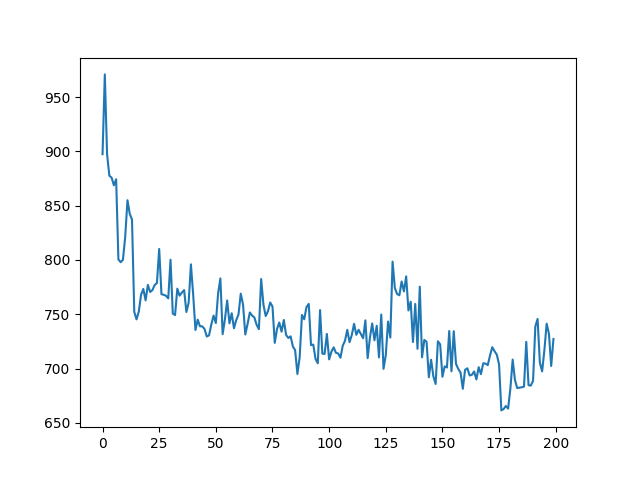
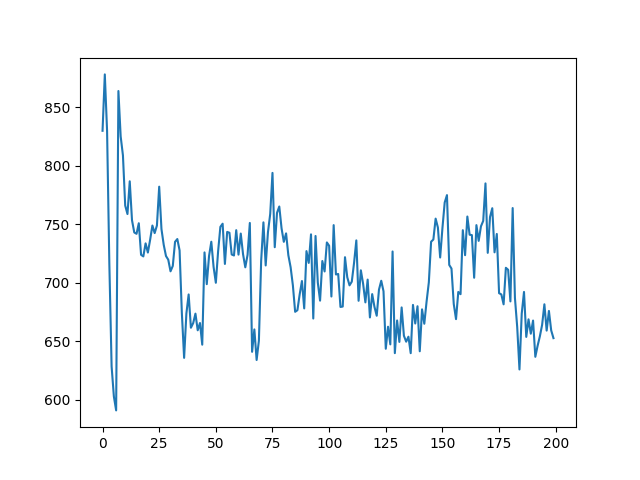
another result for dual_w

diff --git a/roadmaps/adamsmap/adamsmap_main.py b/roadmaps/adamsmap/adamsmap_main.py
@@ -27,7 +27,7 @@ if __name__ == "__main__":
     MAX_COST = 100000
 
     # Training
-    ntb = 80  # batch size
+    ntb = 100  # batch size
     nts = 200  # number of batches
 
     # Evaluation
@@ -43,7 +43,7 @@ if __name__ == "__main__":
     evalcosts = []
     evalunsucc = []
 
-    alpha = 0.1
+    alpha = 0.07
     beta_1 = 0.9
     beta_2 = 0.999
     epsilon = 10E-8
